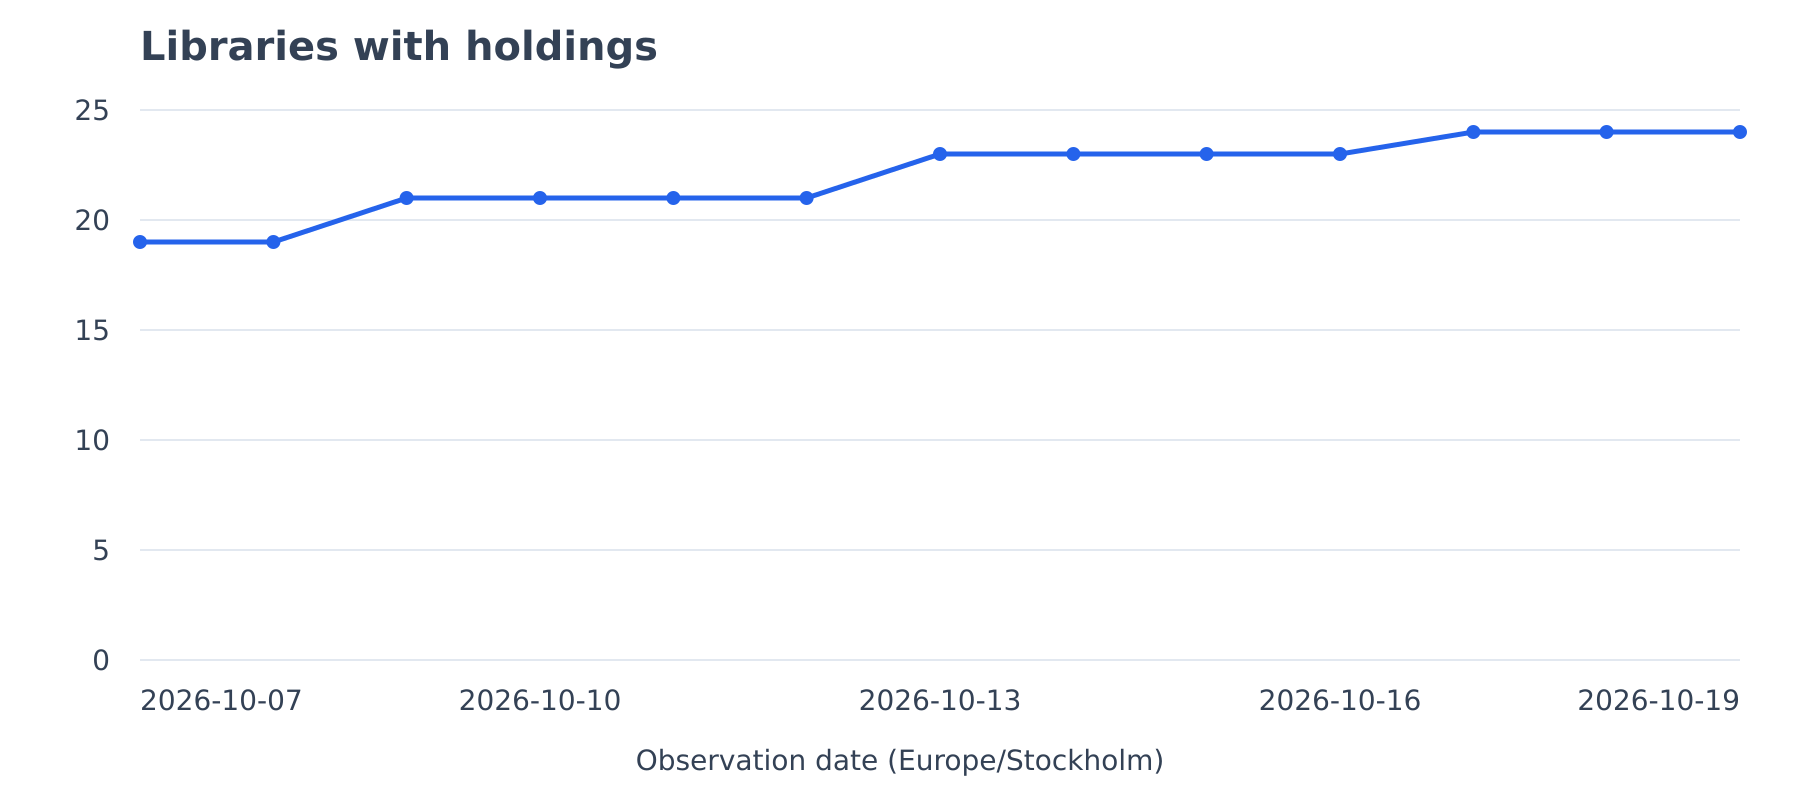
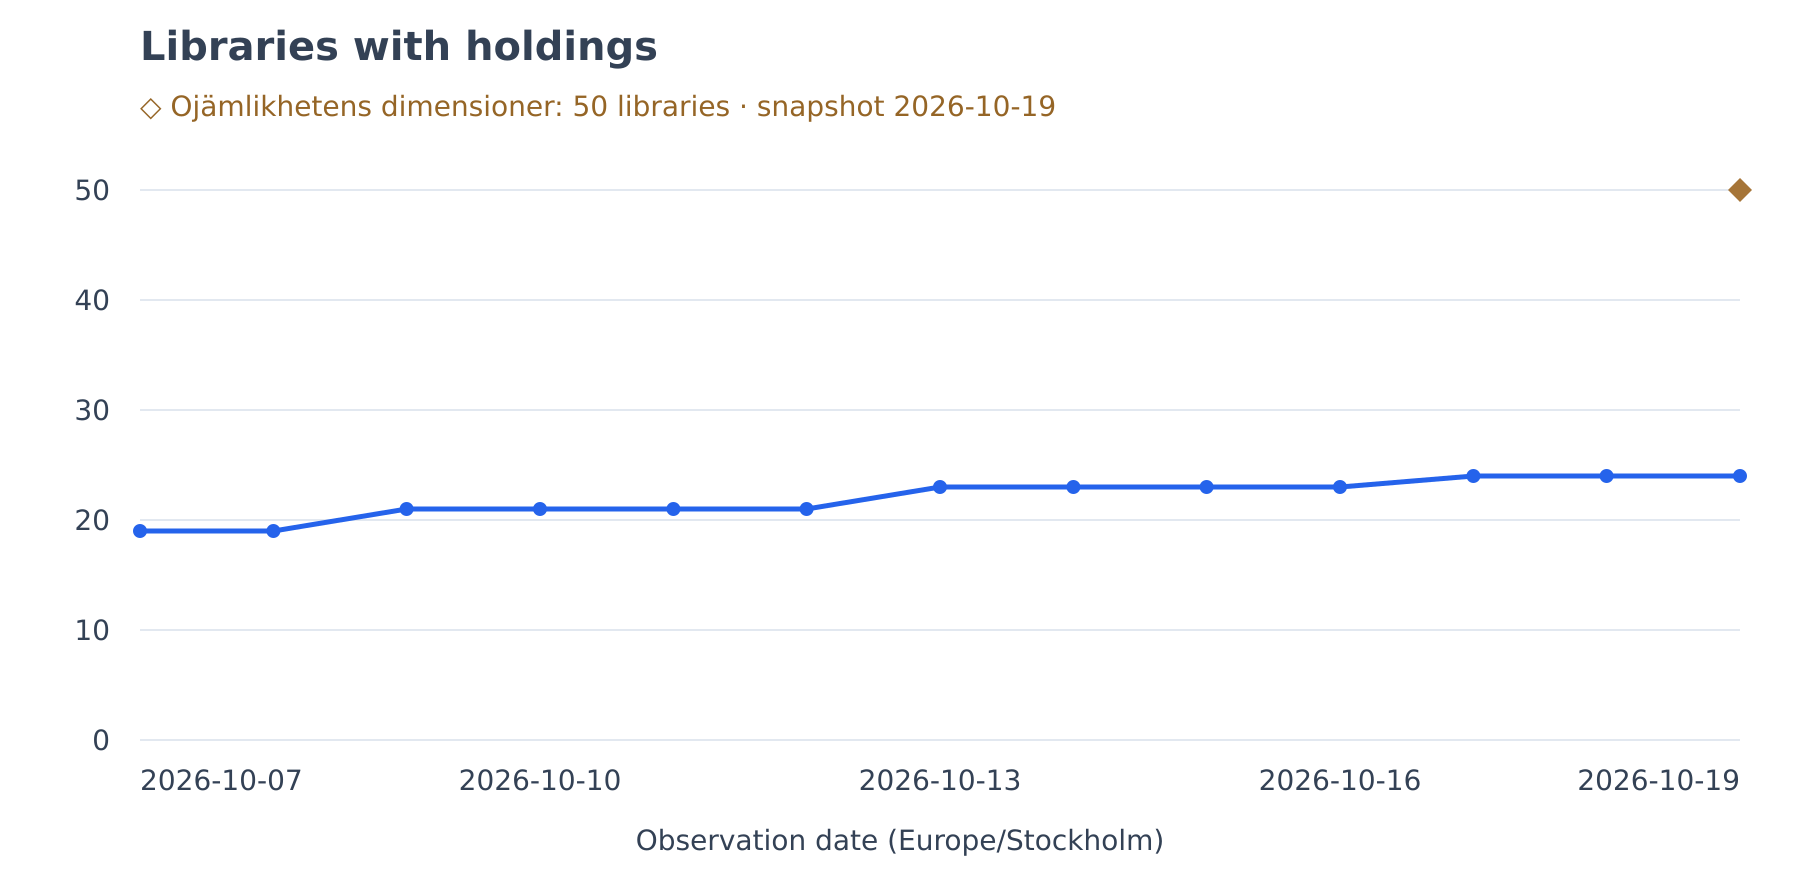
Compare earlier book holdings and set graph scale to 50

diff --git a/index.html b/index.html
@@ -23,8 +23,9 @@ footer{border-top:1px solid #dce3dc;margin-top:36px;padding-top:18px}#stale{back
 <div class="summary"><strong class="count">24</strong><span>library sigels with holdings</span></div>
 <p class="meta date">Latest observation: <strong><time datetime="2026-10-19">2026-10-19</time></strong> · Europe/Stockholm</p>
 <p id="stale" class="note" hidden>The latest observation is more than one day old. The date above shows when the holdings were last checked.</p>
-<figure><img src="history.svg" width="900" height="400" alt="Line graph showing the number of Libris library sigels with holdings over time.">
+<figure><img src="history.svg" width="900" height="440" alt="Line graph showing the number of Libris library sigels with holdings over time.">
 <figcaption>One point per daily observation. Missing days appear as gaps; earlier values are unknown.</figcaption></figure>
+<p class="note">Earlier book: <a href="https://libris.kb.se/tc5b55h5189jw23">Ojämlikhetens dimensioner</a>: <strong>50 library sigels</strong>, observed 2026-10-19. A single dated snapshot; its count sets the upper scale unless the daily series exceeds it.</p>
 <nav aria-label="Downloads"><a href="history.png" download>Download PNG</a><a href="history.svg">Open SVG</a><a href="history.csv" download>Download history (CSV)</a><a href="libraries.json">Library data (JSON)</a></nav>
 <section id="map"><h2>Library map</h2>
 <figure><a href="map.html"><img src="map.svg" width="760" height="900" alt="Map of Sweden and Åland: blue dots show libraries holding this edition; hollow grey circles show other active Libris participants with usable coordinates."></a>

diff --git a/template.html b/template.html
@@ -23,8 +23,9 @@ footer{border-top:1px solid #dce3dc;margin-top:36px;padding-top:18px}#stale{back
 <div class="summary"><strong class="count">@@COUNT@@</strong><span>library sigels with holdings</span></div>
 <p class="meta date">Latest observation: <strong><time datetime="@@DATE@@">@@DATE@@</time></strong> · Europe/Stockholm</p>
 <p id="stale" class="note" hidden>The latest observation is more than one day old. The date above shows when the holdings were last checked.</p>
-<figure><img src="history.svg" width="900" height="400" alt="Line graph showing the number of Libris library sigels with holdings over time.">
+<figure><img src="history.svg" width="900" height="440" alt="Line graph showing the number of Libris library sigels with holdings over time.">
 <figcaption>One point per daily observation. Missing days appear as gaps; earlier values are unknown.</figcaption></figure>
+@@COMPARISON@@
 <nav aria-label="Downloads"><a href="history.png" download>Download PNG</a><a href="history.svg">Open SVG</a><a href="history.csv" download>Download history (CSV)</a><a href="libraries.json">Library data (JSON)</a></nav>
 <section id="map"><h2>Library map</h2>
 <figure><a href="map.html"><img src="map.svg" width="760" height="900" alt="Map of Sweden and Åland: blue dots show libraries holding this edition; hollow grey circles show other active Libris participants with usable coordinates."></a>

diff --git a/update_report.py b/update_report.py
@@ -74,20 +74,34 @@ def collect(fetch=request_json):
             return sorted(libraries.values(), key=lambda item: item['name'].casefold())
 
 
-def graph(history):
+def graph(history, comparison=None):
+    """Daily series plus a single dated reference observation, never a second series."""
     start, end = date.fromisoformat(history[0]['date']), date.fromisoformat(history[-1]['date'])
+    maximum = max(1, max(row['count'] for row in history))
+    if comparison is not None:
+        if type(comparison['count']) is not int or comparison['count'] < 0:
+            raise ValueError('Invalid comparison count')
+        observed = date.fromisoformat(comparison['date'])
+        start, end = min(start, observed), max(end, observed)
+        ceiling = max(maximum, comparison['count'])
+    else:
+        tick = max(1, math.ceil(maximum / 5))
+        ceiling = math.ceil(maximum / tick) * tick
+    tick = max(1, math.ceil(ceiling / 5))
+    ticks = sorted(set(range(0, ceiling + 1, tick)) | {ceiling})
     span = max(1, (end - start).days)
-    tick = max(1, math.ceil(max(row['count'] for row in history) / 5))
-    ceiling = max(tick, math.ceil(max(row['count'] for row in history) / tick) * tick)
-    x = lambda row: 450 if len(history) == 1 else 70 + (date.fromisoformat(row['date']) - start).days / span * 800
-    y = lambda n: 330 - n / ceiling * 275
-    lines = ['<svg xmlns="http://www.w3.org/2000/svg" viewBox="0 0 900 400" role="img" aria-labelledby="title desc">',
+    x = lambda row: 450 if start == end else 70 + (date.fromisoformat(row['date']) - start).days / span * 800
+    y = lambda n: 370 - n / ceiling * 275
+    lines = ['<svg xmlns="http://www.w3.org/2000/svg" viewBox="0 0 900 440" role="img" aria-labelledby="title desc">',
         '<title id="title">Libraries with holdings over time</title>',
-        '<desc id="desc">Daily unique Libris library sigels. Missing days appear as gaps.</desc>',
-        '<rect width="900" height="400" fill="white"/>',
+        '<desc id="desc">Daily unique Libris library sigels. Missing days appear as gaps. The diamond is a single dated observation of the earlier edition, not historical data.</desc>',
+        '<rect width="900" height="440" fill="white"/>',
         '<g font-family="system-ui,sans-serif" font-size="14" fill="#334155">',
         '<text x="70" y="30" font-size="20" font-weight="600">Libraries with holdings</text>']
-    for n in range(0, ceiling + 1, tick):
+    if comparison is not None:
+        label = f"◇ Ojämlikhetens dimensioner: {comparison['count']} libraries · snapshot {comparison['date']}"
+        lines.append(f'<text x="70" y="58" font-size="14" fill="#956526">{escape(label)}</text>')
+    for n in ticks:
         lines += [f'<path d="M70 {y(n):.1f}H870" stroke="#e2e8f0"/>',
                   f'<text x="55" y="{y(n)+5:.1f}" text-anchor="end">{n}</text>']
     for a, b in zip(history, history[1:]):
@@ -95,11 +109,19 @@ def graph(history):
             lines.append(f'<path d="M{x(a):.1f} {y(a["count"]):.1f}L{x(b):.1f} {y(b["count"]):.1f}" stroke="#2563eb" stroke-width="2.5" fill="none"/>')
     for row in history:
         lines.append(f'<circle cx="{x(row):.1f}" cy="{y(row["count"]):.1f}" r="3.5" fill="#2563eb"><title>{row["date"]}: {row["count"]} libraries</title></circle>')
-    for i in sorted({round(n * (len(history) - 1) / 4) for n in range(5)}):
-        row = history[i]
-        anchor = 'middle' if len(history) == 1 else 'start' if i == 0 else 'end' if i == len(history)-1 else 'middle'
-        lines.append(f'<text x="{x(row):.1f}" y="355" text-anchor="{anchor}">{row["date"]}</text>')
-    lines += ['<text x="450" y="385" text-anchor="middle">Observation date (Europe/Stockholm)</text>', '</g></svg>']
+    if comparison is not None:
+        cx, cy = x(comparison), y(comparison['count'])
+        label = escape(f"{comparison['title']}: {comparison['count']} libraries on {comparison['date']}")
+        lines.append(f'<polygon class="comparison-point" points="{cx:.1f},{cy-6:.1f} {cx+6:.1f},{cy:.1f} {cx:.1f},{cy+6:.1f} {cx-6:.1f},{cy:.1f}" fill="#a67538"><title>{label}</title></polygon>')
+    labels = {history[i]['date'] for i in sorted({round(n * (len(history) - 1) / 4) for n in range(5)})}
+    if comparison is not None and comparison['date'] not in labels:
+        # Label the reference date without colliding with nearby daily tick labels.
+        labels = {d for d in labels if abs(x({'date': d}) - x(comparison)) >= 95}
+        labels.add(comparison['date'])
+    for d in sorted(labels):
+        anchor = 'middle' if start == end else 'start' if d == start.isoformat() else 'end' if d == end.isoformat() else 'middle'
+        lines.append(f'<text x="{x({"date": d}):.1f}" y="395" text-anchor="{anchor}">{d}</text>')
+    lines += ['<text x="450" y="425" text-anchor="middle">Observation date (Europe/Stockholm)</text>', '</g></svg>']
     return '\n'.join(lines) + '\n'
 
 
@@ -130,13 +152,19 @@ def rebuild(root=ROOT, fetch=request_json, now=None):
             'changes': {'baseline': False, 'compared_to': latest['date'],
                         'added': sorted(after - before), 'removed': sorted(before - after)}}
         history.append({'date': today, 'count': latest['count']})
+    comparison_path = root / 'comparison.json'
+    comparison = json.loads(comparison_path.read_text(encoding='utf-8')) if comparison_path.exists() else None
+    if comparison is not None and 'libraries' in comparison:
+        raise ValueError('Public comparison must contain only aggregate metadata')
+    comparison_html = '' if comparison is None else (
+        '<p class="note">Earlier book: <a href="https://libris.kb.se/' + escape(comparison['libris_id'], quote=True) + '">Ojämlikhetens dimensioner</a>: <strong>' + str(comparison['count']) + ' library sigels</strong>, observed ' + escape(comparison['date']) + '. A single dated snapshot; its count sets the upper scale unless the daily series exceeds it.</p>')
     changes = latest['changes']
     change_text = ('First observation: baseline established.' if changes['baseline'] else
         f"Compared with {changes['compared_to']}: added {', '.join(changes['added']) or 'none'}; removed {', '.join(changes['removed']) or 'none'}.")
     rows = ''.join(f'<tr><td><a href="https://libris.kb.se/library/{quote(item["sigel"], safe="")}">{escape(item["name"])}</a></td><td>{escape(item["sigel"])}</td></tr>' for item in latest['libraries'])
     html = (root / 'template.html').read_text(encoding='utf-8')
     for name, value in {'COUNT': latest['count'], 'DATE': escape(latest['date']),
-                        'CHECKED': escape(latest['checked_at']), 'CHANGES': escape(change_text), 'ROWS': rows}.items():
+                        'CHECKED': escape(latest['checked_at']), 'CHANGES': escape(change_text), 'ROWS': rows, 'COMPARISON': comparison_html}.items():
         html = html.replace('@@' + name + '@@', str(value))
     if '@@' in html:
         raise ValueError('Unresolved report placeholder')
@@ -145,7 +173,7 @@ def rebuild(root=ROOT, fetch=request_json, now=None):
     writer.writerow(['date', 'count'])
     writer.writerows((row['date'], row['count']) for row in history)
     outputs = {'libraries.json': json.dumps(latest, ensure_ascii=False, indent=2) + '\n',
-               'history.csv': stream.getvalue(), 'history.svg': graph(history), 'index.html': html}
+               'history.csv': stream.getvalue(), 'history.svg': graph(history, comparison), 'index.html': html}
     for filename, content in outputs.items():
         temporary = root / (filename + '.tmp')
         temporary.write_text(content, encoding='utf-8')

diff --git a/test_report.py b/test_report.py
@@ -45,4 +45,36 @@ class ReportTests(unittest.TestCase):
             self.assertEqual((root/'libraries.json').read_bytes(),original)
 
 
+    def test_comparison_is_one_dated_point_and_exact_top_tick(self):
+        import xml.etree.ElementTree as ET
+        history = [{'date':'2026-10-07','count':19}, {'date':'2026-10-09','count':24}]
+        comparison = {'date':'2026-10-19','count':53,'title':'Earlier <book>'}
+        svg = report.graph(history, comparison)
+        nodes = list(ET.fromstring(svg).iter())
+        markers = [n for n in nodes if n.get('class') == 'comparison-point']
+        self.assertEqual(len(markers), 1)
+        self.assertIn('870.0,89.0', markers[0].get('points'))
+        self.assertIn('53', [n.text for n in nodes if n.tag.endswith('text')])
+        self.assertNotIn('54', [n.text for n in nodes if n.tag.endswith('text')])
+        self.assertEqual(svg.count('<circle '), 2)
+        self.assertNotIn('stroke-width="2.5"', svg)
+        self.assertIn('&lt;book&gt;', svg)
+        self.assertIn('2026-10-19', svg)
+        # A growing primary series must never silently disappear above the reference.
+        svg = report.graph([{'date':'2026-10-20','count':60}], comparison)
+        self.assertIn('cy="95.0"', svg)
+
+    def test_public_build_rejects_comparison_library_list(self):
+        with tempfile.TemporaryDirectory() as directory:
+            root = Path(directory)
+            latest = {'title':'Test','isbn':'1','libris_id':'c0qkzx1t9hs5ml77',
+                'timezone':'Europe/Stockholm','date':'2026-10-19','count':0,'libraries':[]}
+            (root/'libraries.json').write_text(json.dumps(latest))
+            (root/'history.csv').write_text('date,count\n2026-10-19,0\n')
+            (root/'comparison.json').write_text(json.dumps({'count':50,'libraries':[]}))
+            with self.assertRaisesRegex(ValueError, 'aggregate metadata'):
+                report.rebuild(root, now=datetime(2026,10,19,12,tzinfo=timezone.utc))
+            self.assertFalse((root/'index.html').exists())
+
+
 if __name__ == '__main__': unittest.main()

diff --git a/README.md b/README.md
@@ -11,3 +11,9 @@ The workflow tries five times daily and skips collection after a successful obse
 Counts are unique Libris library sigels for this edition, not copies or loan availability.
 
 The daily map shows identical blue dots for holdings and hollow grey circles for other active Libris participants with usable coordinates. Networks use one representative location. Coordinates come from KB’s library directory, with documented fallbacks; country outlines are Natural Earth public-domain data. Holding locations refresh with each daily observation; the participant directory refreshes weekly. Cached coordinates are used during directory outages and labelled in the zoomable map. The map works without external tiles or scripts.
+
+## Earlier book comparison
+
+Ojämlikhetens dimensioner (ISBN 9789147111299; Libris tc5b55h5189jw23): **50 unique library sigels**, observed 2026-10-19. This is a fixed, dated snapshot shown as a separate diamond, not a second daily series. The y-axis ends at 50 unless the daily series grows beyond it.
+
+Only aggregate comparison metadata is stored here. The comparison library list, coordinates, and map remain in the private tracker.
